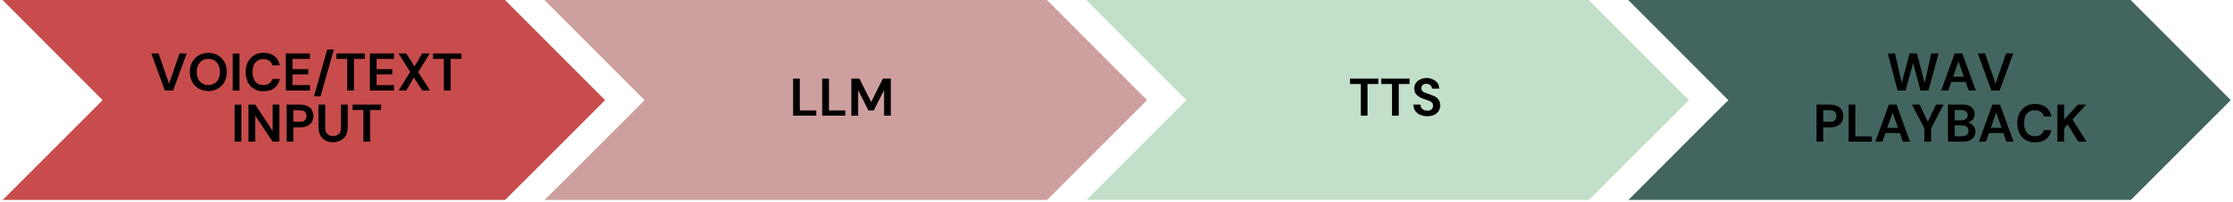
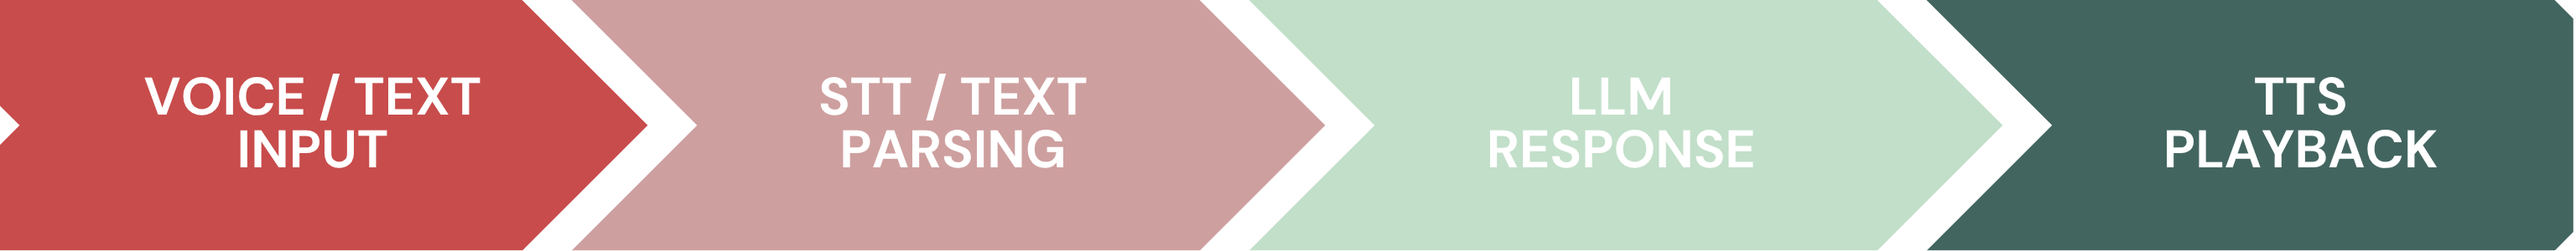
Revised

diff --git a/index.html b/index.html
@@ -177,12 +177,24 @@
 											<div class="process-copy">
 												<span class="process-kicker">Process 04</span>
 												<h3>AI Dialogue & Runtime Response</h3>
-												<p>The dialogue system supports voice or text input, AI-assisted character response and TTS playback through a structured interaction loop.</p>
-												<p>During the dialogue scene, the character’s emotional state updates in real time, influencing camera, lighting, cinematic tone and ending direction as the conversation unfolds.</p>
+												<p>The dialogue system supports voice or text input through a structured interaction loop. Each player response is sent to the LLM manager, which returns a structured runtime response containing emotional state, narrative direction and cinematic tone.</p>
+												<p>During the dialogue scene, the character’s emotional state updates in real time, influencing camera, lighting, cinematic staging and ending direction as the conversation unfolds.</p>
 											</div>
 											<figure class="diagram-card diagram-card--light-inset process-diagram dialogue-diagram-card">
 												<img src="images/seb_llm_runtime_context.jpg" alt="AI dialogue and runtime context diagram for Someone Else’s Business" />
 												<figcaption>AI Dialogue and Runtime Context</figcaption>
+											</figure>
+										</section>
+										<section class="process-block process-block--wide">
+											<div class="process-copy">
+												<span class="process-kicker">Process 05</span>
+												<h3>Voice Input & TTS Playback</h3>
+												<p>Voice interaction is supported through an STT / TTS pipeline that connects player input to in-scene character playback. Spoken input can be transcribed and processed alongside text input, keeping the interaction flexible while preserving the same narrative logic.</p>
+												<p>Character replies are then converted into voice playback through ElevenLabs TTS and returned to the scene with subtitles and synced audio, reinforcing the cinematic presence of the conversation.</p>
+											</div>
+											<figure class="diagram-card process-diagram voice-pipeline-card">
+												<img src="images/seb_stt_tts_flow.jpg" alt="Voice and text input pipeline with STT, LLM response, ElevenLabs TTS, subtitles and audio playback" />
+												<figcaption>Voice / Text Input to TTS Playback</figcaption>
 											</figure>
 										</section>
 									</div>

diff --git a/assets/css/main.css b/assets/css/main.css
@@ -2308,6 +2308,22 @@ input, select, textarea {
 		height: 100%;
 	}
 
+	.process-block--wide {
+		align-items: start;
+		display: grid;
+		gap: 2rem;
+		grid-column: 1 / -1;
+		grid-template-columns: minmax(0, 0.9fr) minmax(0, 1.1fr);
+	}
+
+	.process-block--wide .process-copy {
+		margin-bottom: 0;
+	}
+
+	.process-block--wide .diagram-card {
+		margin: 0;
+	}
+
 	.process-copy {
 		margin-bottom: 1.5rem;
 	}
@@ -2403,6 +2419,10 @@ input, select, textarea {
 		max-height: 85%;
 		max-width: 85%;
 		width: 85%;
+	}
+
+	.voice-pipeline-card {
+		padding: 1rem;
 	}
 
 	.diagram-card figcaption {
@@ -2787,6 +2807,15 @@ input, select, textarea {
 		}
 
 		.process-block .diagram-card {
+			margin-top: 1.5rem;
+		}
+
+		.process-block--wide {
+			display: flex;
+			gap: 0;
+		}
+
+		.process-block--wide .diagram-card {
 			margin-top: 1.5rem;
 		}
 
